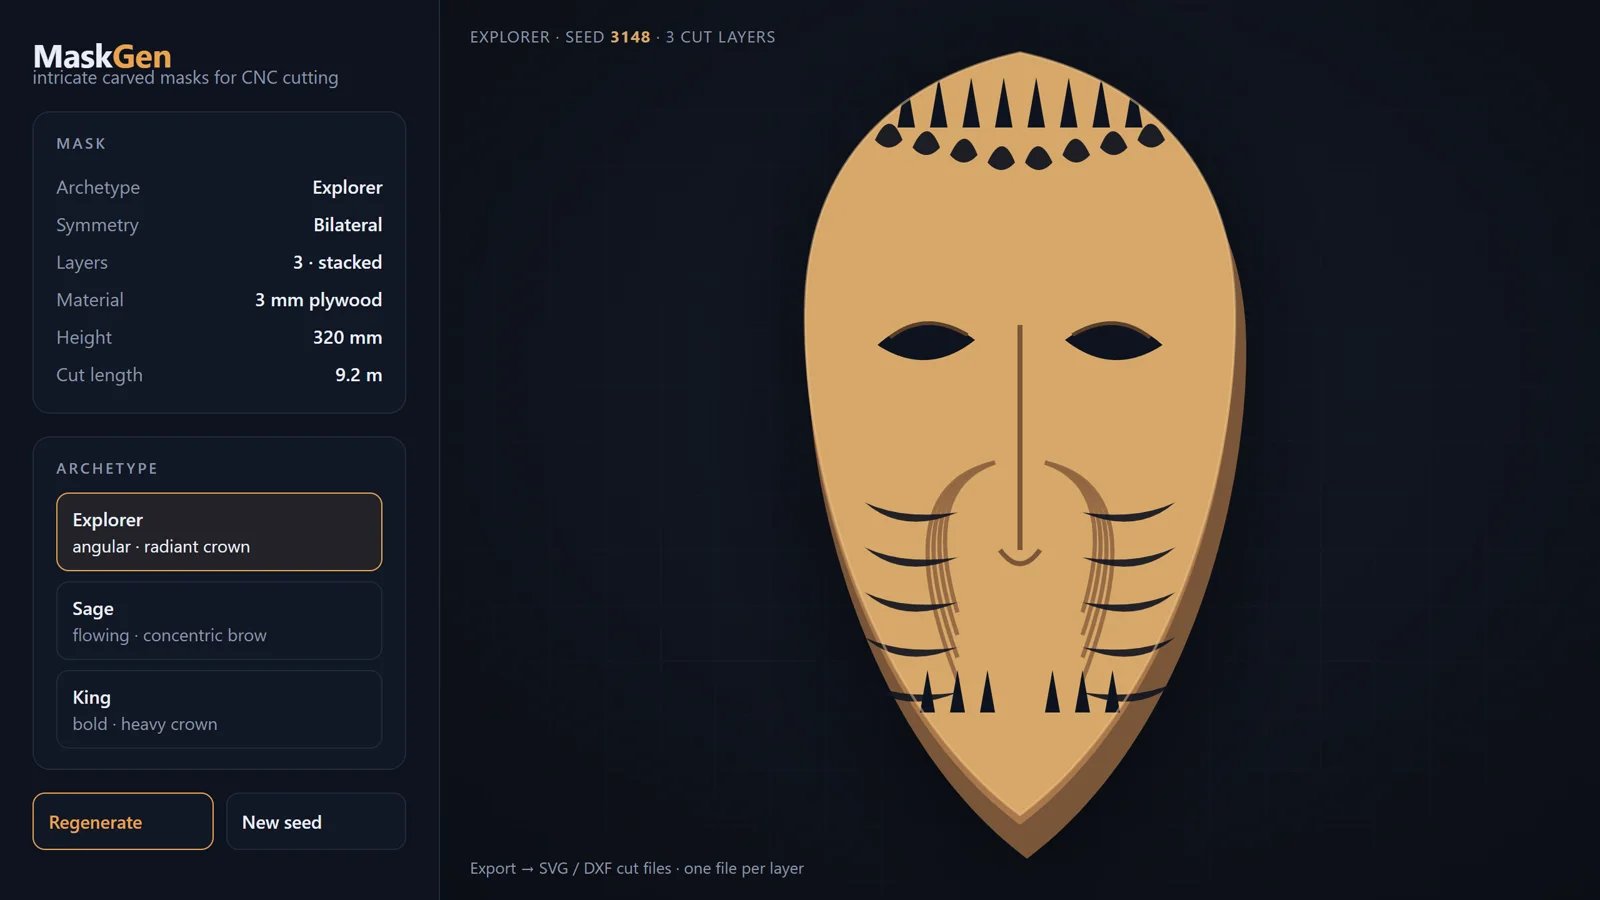
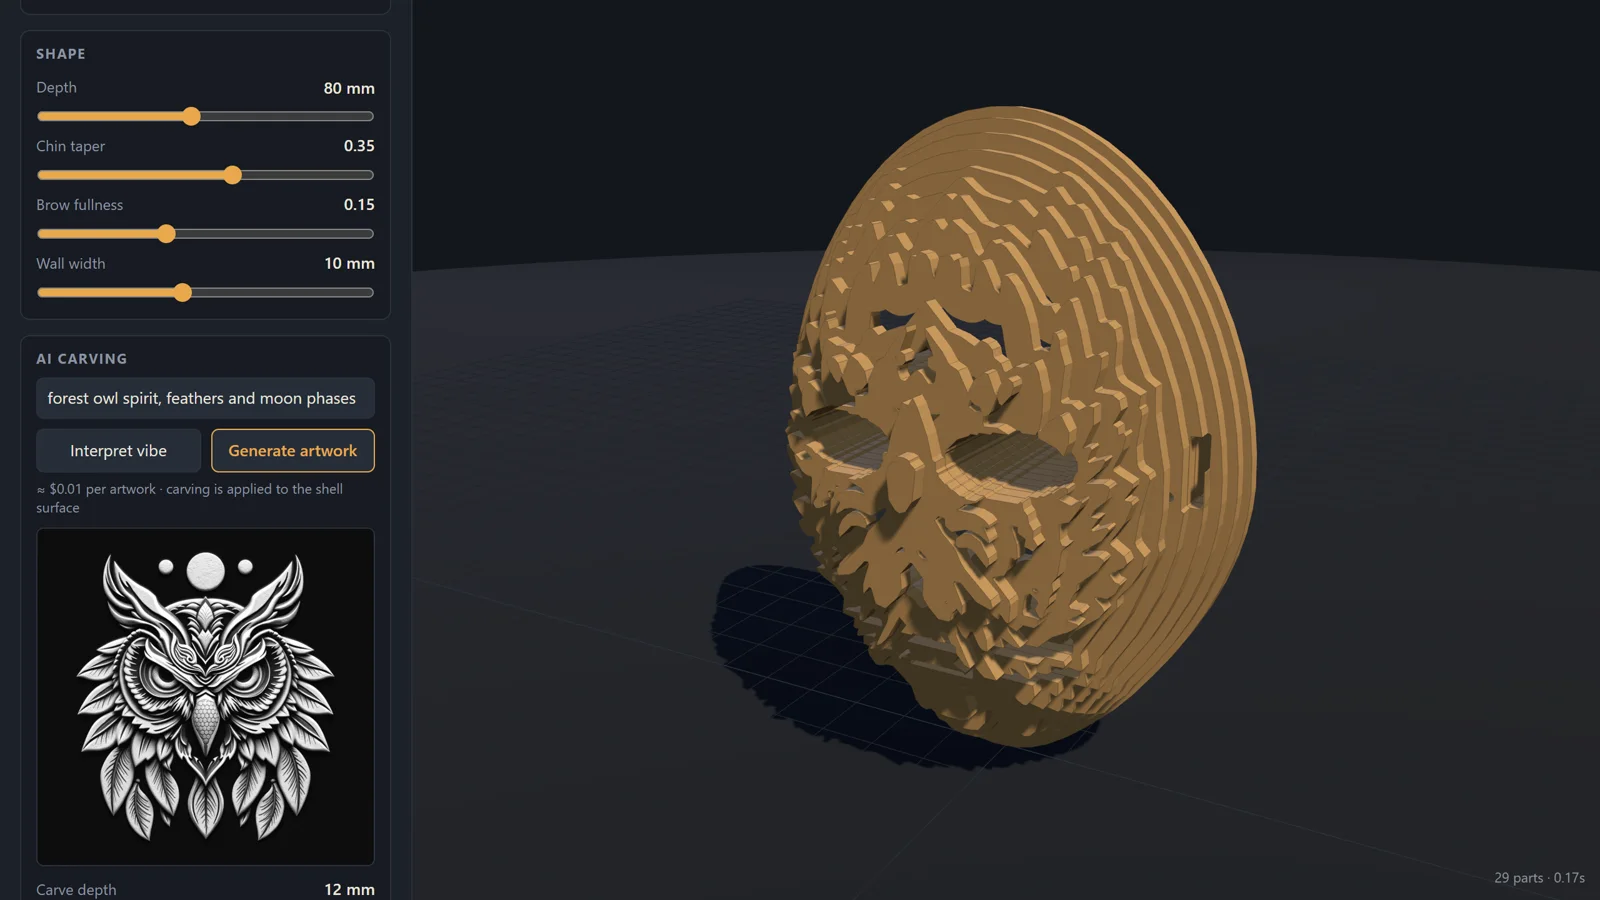
sienci: swap MaskGen mockup for the real app (live AI-carved owl mask)

diff --git a/src/app/sienci/page.tsx b/src/app/sienci/page.tsx
@@ -2,5 +2,5 @@ import DeckFrame from "@/components/DeckFrame";
 
 // /sienci — Sienci Labs content-partnership pitch deck (public, chrome-free).
 export default function SienciPage() {
-  return <DeckFrame src="/sienci/index.html?v=20260706q" />;
+  return <DeckFrame src="/sienci/index.html?v=20260706r" />;
 }
